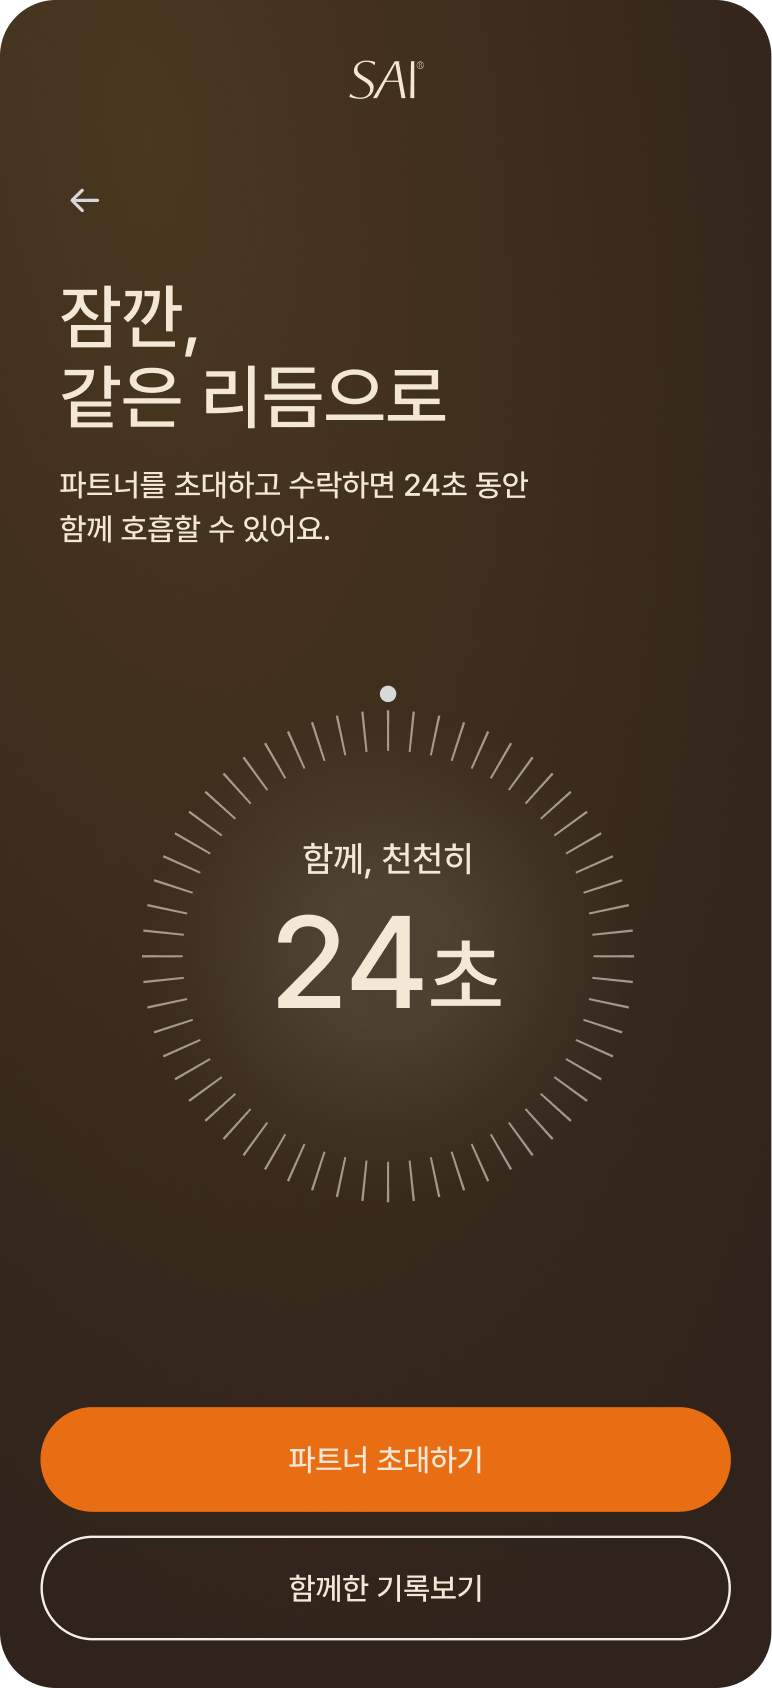
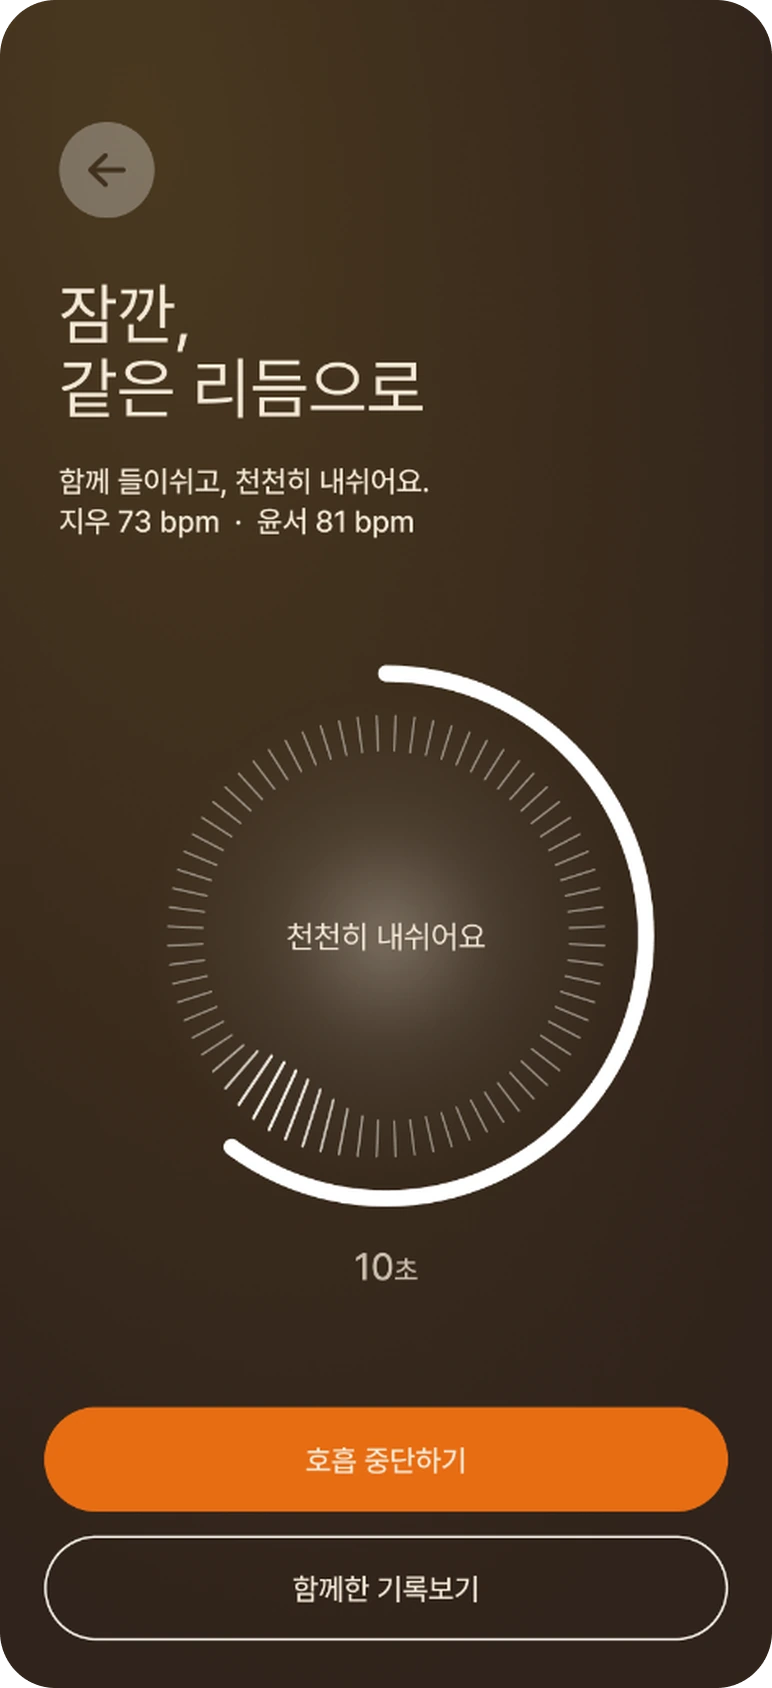
Update app-welcome.webp and app-breathe.webp screens to latest versions

diff --git a/ja/teaser7/index.html b/ja/teaser7/index.html
@@ -2966,7 +2966,7 @@
     <div class="app-screen-rail" id="app-screen-rail" aria-label="SAI 앱 화면 다섯 장">
       <figure class="app-screen screen-0">
         <button type="button" onclick="openAppScreenModal(0)" aria-label="나를 알아가는 시작 화면 크게 보기">
-          <img src="/hello99/assets/app-welcome.webp" alt="나를 알아가는 시작" width="780" height="1688" loading="lazy">
+          <img src="/hello99/assets/app-welcome.webp?v=20261110" alt="나를 알아가는 시작" width="780" height="1688" loading="lazy">
           <span class="screen-expand" aria-hidden="true">
             <svg width="19" height="19" viewBox="0 0 256 256" fill="currentColor"><path d="M224,128a8,8,0,0,1-8,8H136v80a8,8,0,0,1-16,0V136H40a8,8,0,0,1,0-16h80V40a8,8,0,0,1,16,0v80h80A8,8,0,0,1,224,128Z"></path></svg>
           </span>
@@ -2996,7 +2996,7 @@
 
       <figure class="app-screen screen-3">
         <button type="button" onclick="openAppScreenModal(3)" aria-label="함께, 같은 리듬으로 화면 크게 보기">
-          <img src="/hello99/assets/app-breathe.webp" alt="함께, 같은 리듬으로" width="772" height="1688" loading="lazy">
+          <img src="/hello99/assets/app-breathe.webp?v=20261110" alt="함께, 같은 리듬으로" width="772" height="1688" loading="lazy">
           <span class="screen-expand" aria-hidden="true">
             <svg width="19" height="19" viewBox="0 0 256 256" fill="currentColor"><path d="M224,128a8,8,0,0,1-8,8H136v80a8,8,0,0,1-16,0V136H40a8,8,0,0,1,0-16h80V40a8,8,0,0,1,16,0v80h80A8,8,0,0,1,224,128Z"></path></svg>
           </span>
@@ -3031,7 +3031,7 @@
       <button type="button" class="screen-close" aria-label="닫기" onclick="closeAppScreenModal()">
         <svg width="18" height="18" viewBox="0 0 256 256" fill="currentColor"><path d="M205.66,194.34a8,8,0,0,1-11.32,11.32L128,139.31,61.66,205.66a8,8,0,0,1-11.32-11.32L116.69,128,50.34,61.66A8,8,0,0,1,61.66,50.34L128,116.69l66.34-66.35a8,8,0,0,1,11.32,11.32L139.31,128Z"></path></svg>
       </button>
-      <img id="app-modal-img" src="/hello99/assets/app-welcome.webp" alt="나를 알아가는 시작">
+      <img id="app-modal-img" src="/hello99/assets/app-welcome.webp?v=20261110" alt="나를 알아가는 시작">
       <div class="screen-modal-controls">
         <button type="button" class="app-nav-icon" id="app-modal-prev" aria-label="이전 앱 화면" onclick="stepAppScreenModal(-1)">
           <svg width="18" height="18" viewBox="0 0 256 256" fill="currentColor"><path d="M224,128a8,8,0,0,1-8,8H59.31l58.35,58.34a8,8,0,0,1-11.32,11.32l-72-72a8,8,0,0,1,0-11.32l72-72a8,8,0,0,1,11.32,11.32L59.31,120H216A8,8,0,0,1,224,128Z"></path></svg>
@@ -3518,10 +3518,10 @@
 
     // App 5-Screen Showcase Data & Handlers (From hello99)
     const APP_SCREENS_DATA = [
-      { file: '/hello99/assets/app-welcome.webp', ko: '나를 알아가는 시작', ja: '自分を知ることから' },
+      { file: '/hello99/assets/app-welcome.webp?v=20261110', ko: '나를 알아가는 시작', ja: '自分を知ることから' },
       { file: '/hello99/assets/app-morning.webp', ko: '오늘의 나를 만나기', ja: '今日の自分に出会う' },
       { file: '/hello99/assets/app-together.webp', ko: '각자의 하루, 하나의 사이', ja: 'それぞれの1日、ひとつのSAI' },
-      { file: '/hello99/assets/app-breathe.webp', ko: '함께, 같은 리듬으로', ja: 'ふたり、同じリズムで' },
+      { file: '/hello99/assets/app-breathe.webp?v=20261110', ko: '함께, 같은 리듬으로', ja: 'ふたり、同じリズムで' },
       { file: '/hello99/assets/app-steps.webp', ko: '쌓여가는 나의 걸음', ja: '積み重なる毎日の歩み' }
     ];
     let currentAppModalIdx = null;

diff --git a/teaser7.html b/teaser7.html
@@ -2966,7 +2966,7 @@
     <div class="app-screen-rail" id="app-screen-rail" aria-label="SAI 앱 화면 다섯 장">
       <figure class="app-screen screen-0">
         <button type="button" onclick="openAppScreenModal(0)" aria-label="나를 알아가는 시작 화면 크게 보기">
-          <img src="/hello99/assets/app-welcome.webp" alt="나를 알아가는 시작" width="780" height="1688" loading="lazy">
+          <img src="/hello99/assets/app-welcome.webp?v=20261110" alt="나를 알아가는 시작" width="780" height="1688" loading="lazy">
           <span class="screen-expand" aria-hidden="true">
             <svg width="19" height="19" viewBox="0 0 256 256" fill="currentColor"><path d="M224,128a8,8,0,0,1-8,8H136v80a8,8,0,0,1-16,0V136H40a8,8,0,0,1,0-16h80V40a8,8,0,0,1,16,0v80h80A8,8,0,0,1,224,128Z"></path></svg>
           </span>
@@ -2996,7 +2996,7 @@
 
       <figure class="app-screen screen-3">
         <button type="button" onclick="openAppScreenModal(3)" aria-label="함께, 같은 리듬으로 화면 크게 보기">
-          <img src="/hello99/assets/app-breathe.webp" alt="함께, 같은 리듬으로" width="772" height="1688" loading="lazy">
+          <img src="/hello99/assets/app-breathe.webp?v=20261110" alt="함께, 같은 리듬으로" width="772" height="1688" loading="lazy">
           <span class="screen-expand" aria-hidden="true">
             <svg width="19" height="19" viewBox="0 0 256 256" fill="currentColor"><path d="M224,128a8,8,0,0,1-8,8H136v80a8,8,0,0,1-16,0V136H40a8,8,0,0,1,0-16h80V40a8,8,0,0,1,16,0v80h80A8,8,0,0,1,224,128Z"></path></svg>
           </span>
@@ -3031,7 +3031,7 @@
       <button type="button" class="screen-close" aria-label="닫기" onclick="closeAppScreenModal()">
         <svg width="18" height="18" viewBox="0 0 256 256" fill="currentColor"><path d="M205.66,194.34a8,8,0,0,1-11.32,11.32L128,139.31,61.66,205.66a8,8,0,0,1-11.32-11.32L116.69,128,50.34,61.66A8,8,0,0,1,61.66,50.34L128,116.69l66.34-66.35a8,8,0,0,1,11.32,11.32L139.31,128Z"></path></svg>
       </button>
-      <img id="app-modal-img" src="/hello99/assets/app-welcome.webp" alt="나를 알아가는 시작">
+      <img id="app-modal-img" src="/hello99/assets/app-welcome.webp?v=20261110" alt="나를 알아가는 시작">
       <div class="screen-modal-controls">
         <button type="button" class="app-nav-icon" id="app-modal-prev" aria-label="이전 앱 화면" onclick="stepAppScreenModal(-1)">
           <svg width="18" height="18" viewBox="0 0 256 256" fill="currentColor"><path d="M224,128a8,8,0,0,1-8,8H59.31l58.35,58.34a8,8,0,0,1-11.32,11.32l-72-72a8,8,0,0,1,0-11.32l72-72a8,8,0,0,1,11.32,11.32L59.31,120H216A8,8,0,0,1,224,128Z"></path></svg>
@@ -3518,10 +3518,10 @@
 
     // App 5-Screen Showcase Data & Handlers (From hello99)
     const APP_SCREENS_DATA = [
-      { file: '/hello99/assets/app-welcome.webp', ko: '나를 알아가는 시작', ja: '自分を知ることから' },
+      { file: '/hello99/assets/app-welcome.webp?v=20261110', ko: '나를 알아가는 시작', ja: '自分を知ることから' },
       { file: '/hello99/assets/app-morning.webp', ko: '오늘의 나를 만나기', ja: '今日の自分に出会う' },
       { file: '/hello99/assets/app-together.webp', ko: '각자의 하루, 하나의 사이', ja: 'それぞれの1日、ひとつのSAI' },
-      { file: '/hello99/assets/app-breathe.webp', ko: '함께, 같은 리듬으로', ja: 'ふたり、同じリズムで' },
+      { file: '/hello99/assets/app-breathe.webp?v=20261110', ko: '함께, 같은 리듬으로', ja: 'ふたり、同じリズムで' },
       { file: '/hello99/assets/app-steps.webp', ko: '쌓여가는 나의 걸음', ja: '積み重なる毎日の歩み' }
     ];
     let currentAppModalIdx = null;

diff --git a/teaser7/index.html b/teaser7/index.html
@@ -2966,7 +2966,7 @@
     <div class="app-screen-rail" id="app-screen-rail" aria-label="SAI 앱 화면 다섯 장">
       <figure class="app-screen screen-0">
         <button type="button" onclick="openAppScreenModal(0)" aria-label="나를 알아가는 시작 화면 크게 보기">
-          <img src="/hello99/assets/app-welcome.webp" alt="나를 알아가는 시작" width="780" height="1688" loading="lazy">
+          <img src="/hello99/assets/app-welcome.webp?v=20261110" alt="나를 알아가는 시작" width="780" height="1688" loading="lazy">
           <span class="screen-expand" aria-hidden="true">
             <svg width="19" height="19" viewBox="0 0 256 256" fill="currentColor"><path d="M224,128a8,8,0,0,1-8,8H136v80a8,8,0,0,1-16,0V136H40a8,8,0,0,1,0-16h80V40a8,8,0,0,1,16,0v80h80A8,8,0,0,1,224,128Z"></path></svg>
           </span>
@@ -2996,7 +2996,7 @@
 
       <figure class="app-screen screen-3">
         <button type="button" onclick="openAppScreenModal(3)" aria-label="함께, 같은 리듬으로 화면 크게 보기">
-          <img src="/hello99/assets/app-breathe.webp" alt="함께, 같은 리듬으로" width="772" height="1688" loading="lazy">
+          <img src="/hello99/assets/app-breathe.webp?v=20261110" alt="함께, 같은 리듬으로" width="772" height="1688" loading="lazy">
           <span class="screen-expand" aria-hidden="true">
             <svg width="19" height="19" viewBox="0 0 256 256" fill="currentColor"><path d="M224,128a8,8,0,0,1-8,8H136v80a8,8,0,0,1-16,0V136H40a8,8,0,0,1,0-16h80V40a8,8,0,0,1,16,0v80h80A8,8,0,0,1,224,128Z"></path></svg>
           </span>
@@ -3031,7 +3031,7 @@
       <button type="button" class="screen-close" aria-label="닫기" onclick="closeAppScreenModal()">
         <svg width="18" height="18" viewBox="0 0 256 256" fill="currentColor"><path d="M205.66,194.34a8,8,0,0,1-11.32,11.32L128,139.31,61.66,205.66a8,8,0,0,1-11.32-11.32L116.69,128,50.34,61.66A8,8,0,0,1,61.66,50.34L128,116.69l66.34-66.35a8,8,0,0,1,11.32,11.32L139.31,128Z"></path></svg>
       </button>
-      <img id="app-modal-img" src="/hello99/assets/app-welcome.webp" alt="나를 알아가는 시작">
+      <img id="app-modal-img" src="/hello99/assets/app-welcome.webp?v=20261110" alt="나를 알아가는 시작">
       <div class="screen-modal-controls">
         <button type="button" class="app-nav-icon" id="app-modal-prev" aria-label="이전 앱 화면" onclick="stepAppScreenModal(-1)">
           <svg width="18" height="18" viewBox="0 0 256 256" fill="currentColor"><path d="M224,128a8,8,0,0,1-8,8H59.31l58.35,58.34a8,8,0,0,1-11.32,11.32l-72-72a8,8,0,0,1,0-11.32l72-72a8,8,0,0,1,11.32,11.32L59.31,120H216A8,8,0,0,1,224,128Z"></path></svg>
@@ -3518,10 +3518,10 @@
 
     // App 5-Screen Showcase Data & Handlers (From hello99)
     const APP_SCREENS_DATA = [
-      { file: '/hello99/assets/app-welcome.webp', ko: '나를 알아가는 시작', ja: '自分を知ることから' },
+      { file: '/hello99/assets/app-welcome.webp?v=20261110', ko: '나를 알아가는 시작', ja: '自分を知ることから' },
       { file: '/hello99/assets/app-morning.webp', ko: '오늘의 나를 만나기', ja: '今日の自分に出会う' },
       { file: '/hello99/assets/app-together.webp', ko: '각자의 하루, 하나의 사이', ja: 'それぞれの1日、ひとつのSAI' },
-      { file: '/hello99/assets/app-breathe.webp', ko: '함께, 같은 리듬으로', ja: 'ふたり、同じリズムで' },
+      { file: '/hello99/assets/app-breathe.webp?v=20261110', ko: '함께, 같은 리듬으로', ja: 'ふたり、同じリズムで' },
       { file: '/hello99/assets/app-steps.webp', ko: '쌓여가는 나의 걸음', ja: '積み重なる毎日の歩み' }
     ];
     let currentAppModalIdx = null;
